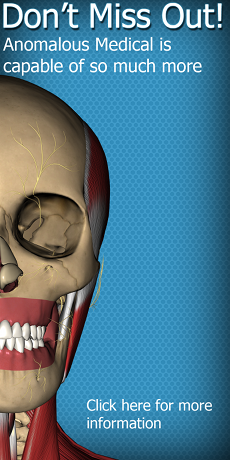
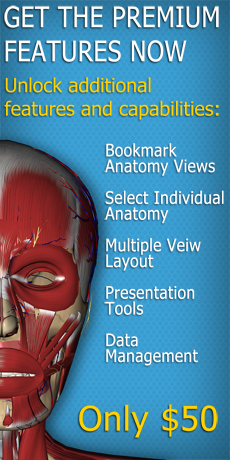
Made all login error messages refocus on the password box when they are closed. Updated the premium ad.
git-svn-id: https://192.168.3.139:8443/svn/Medical/trunk@3632 956a8c8d-885e-cb46-a0b9-a2f355b4c364

diff --git a/AnomalousMedical/Controller/MvcLoginController.cs b/AnomalousMedical/Controller/MvcLoginController.cs
@@ -140,9 +140,11 @@ namespace Medical.Controller
             {
                 Log.Error("Invalid license returned from server. Reason: {0}", ex.Message);
                 passwordControl.Value = "";
-                passwordControl.focus();
                 loggingIn = false;
-                MessageBox.show(String.Format("License returned from server is invalid.\nReason: {0}\nPlease contact support at CustomerService@AnomalousMedical.com.", ex.Message), "Login Error", MessageBoxStyle.Ok | MessageBoxStyle.IconError);
+                MessageBox.show(String.Format("License returned from server is invalid.\nReason: {0}\nPlease contact support at CustomerService@AnomalousMedical.com.", ex.Message), "Login Error", MessageBoxStyle.Ok | MessageBoxStyle.IconError, (result) =>
+                {
+                    passwordControl.focus();
+                });
             }
         }
 
@@ -158,9 +160,11 @@ namespace Medical.Controller
 
         void licenseServerFail(String message)
         {
-            passwordControl.focus();
             loggingIn = false;
-            MessageBox.show(message, "License Error", MessageBoxStyle.Ok | MessageBoxStyle.IconError);
+            MessageBox.show(message, "License Error", MessageBoxStyle.Ok | MessageBoxStyle.IconError, (result) =>
+            {
+                passwordControl.focus();
+            });
         }
 
         void close()
